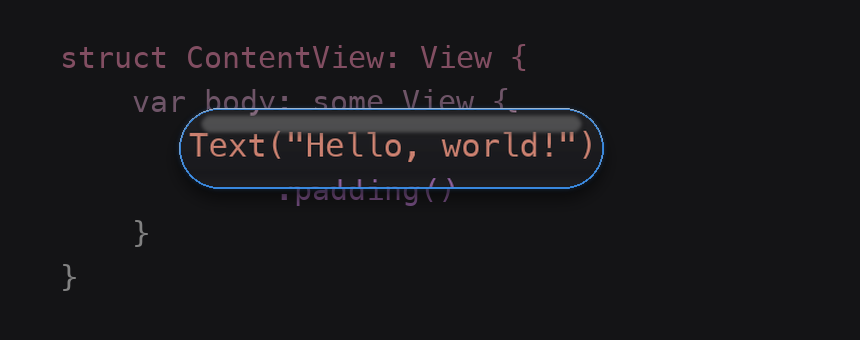
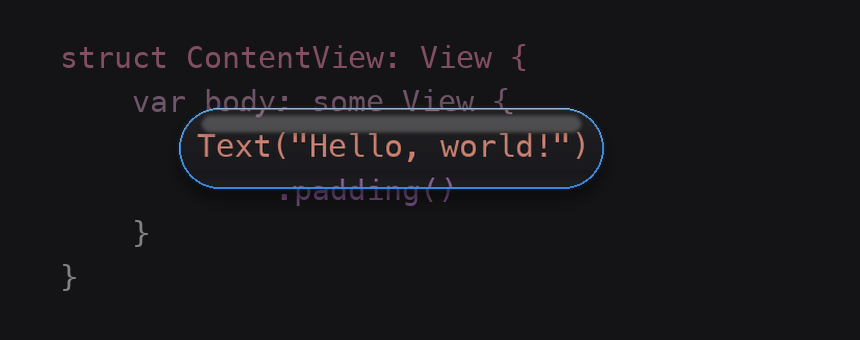
Cap lens magnification shift so wide bubbles don't clip edge content
The 1.08x lens magnification pushes content outward from the bubble
center; with container detection producing wide bubbles the leftmost
characters (e.g. the 'I' of 'Interface:') were pushed under the ring
and clipped. Derive the scale from a maximum edge shift of ~4-8px so
only padding whitespace is ever sacrificed; narrow bubbles keep the
full 1.08x effect.

diff --git a/circle_text.py b/circle_text.py
@@ -439,8 +439,13 @@ def draw_bubble_highlight(img, padded_box, radius, color=(64, 156, 255)):
     shadow = shadow.filter(ImageFilter.GaussianBlur(bh * 0.10))
     img.alpha_composite(shadow)
 
-    # 2. 內容微放大：凸透鏡的放大感
+    # 2. 內容微放大：凸透鏡的放大感。
+    # 放大會把邊緣內容往外推出泡泡，寬泡泡（如整個選單框）推移量
+    # 可觀，會裁到文字，因此依寬度動態調整倍率，限制邊緣最大推移量
+    max_shift = max(4.0, min(8.0, bh * 0.10))
     scale = 1.08
+    if bw > 2 * max_shift:
+        scale = min(1.08, 1.0 / (1.0 - 2 * max_shift / bw))
     ew, eh = round(bw * scale), round(bh * scale)
     enlarged = region.resize((ew, eh), Image.LANCZOS)
     cx, cy = (ew - bw) // 2, (eh - bh) // 2
